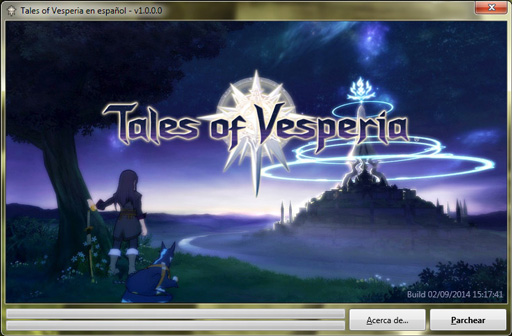
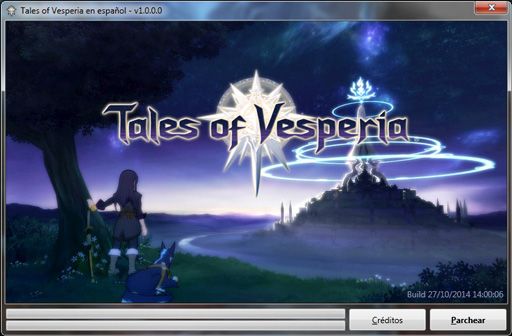
Correcciones y ajustes.

diff --git a/index.html b/index.html
@@ -38,8 +38,8 @@
       <p>Por supuesto, en un proyecto de esta magnitud nunca se sabe cuándo está todo finiquitado, y después de los PNJ todavía se tuvieron que rematar diálogos faltantes, la edición gráfica, los logros… detalles que se fueron puliendo antes de verano. Lia, además, hizo cuatro guías del juego: misiones secundarias, logros, recetas y títulos, que os presentamos en la sección correspondiente.</p>
       <p>Llegó el momento de testear el juego en una Xbox 360. Pedimos prestada una J-TAG en distintos foros, que por aquel entonces era imprescindible para hacer todas las pruebas que necesitábamos, pero no apareció ningún héroe. Menos mal que soywiz pudo hacerse con una, pero por asuntos personales fue imposible empezar el testeo hasta principios de…</p>
       <h3>Año 2012</h3>
-      <p>… 2012, donde Memnoch, uno de los testers junto a Lia, abrió un hilo en el foro de Tales-Translations. Subía imágenes casi a diario del progreso y encontró errores de todo tipo y condición, tanto ortográficos, sintácticos, de programación, celdas vacías, palabras que se salían, audio que no sonaba, fragmentos en inglés… No se podía publicar algo en ese estado, pero ya dábamos por hecho. Le dedicó unos dos meses a pasarse el juego y a corregir o informar de todos los errores que encontró.</p>
-      <p>Pero, en vista de que la situación personal de soywiz iba para largo, y dado que Memnoch y Lia son unos culos inquietos, decidieron centrar sus esfuerzos en traducir el juego Radiant Historia, de Nintendo DS, que podéis descargar aquí. Sí, publicidad gratuita, ¿qué pasa?</p>
+      <p>… 2012, donde Memnoch, uno de los testers junto a Lia, abrió un hilo en el foro de Tales-Translations. Subía imágenes casi a diario del progreso y encontró errores de todo tipo y condición, tanto ortográficos, sintácticos, de programación, celdas vacías, palabras que se salían, audio que no sonaba, fragmentos en inglés… No se podía publicar algo en ese estado, pero eso ya lo dábamos por hecho. Le dedicó unos dos meses a pasarse el juego y a corregir o informar de todos los errores que encontró.</p>
+      <p>Pero, en vista de que la situación personal de soywiz iba para largo, y dado que Memnoch y Lia son unos culos inquietos, decidieron centrar sus esfuerzos en traducir el juego Radiant Historia, de Nintendo DS, que podéis <a href="http://rh.tales-tra.com/" target="_blank">descargar aquí</a>. Sí, publicidad gratuita, ¿qué pasa?</p>
       <p>A finales de año soywiz reapareció, corrigió todos los errores que pudo y sacó otro parche para que Memnoch lo testeara, labor que le llevó otros dos o tres meses. Teníamos intención de pegarle al menos tres repasadas, y la última de ellas tenía que ser por parte de Lia.</p>
       <h3>Año 2013</h3>
       <p>A lo largo de este año soywiz fue apareciendo esporádicamente, corrigió algunos de los errores que se habían detectado durante el testeo y avanzó con la programación del parche de la traducción. Memnoch y Lia, los únicos que quedaban pendientes del proyecto, se mantuvieron a la espera de poder empezar el tercer y último testeo mientras acababan —acabábamos— el Radiant Historia (guiño, guiño). Por desgracia, soywiz desapareció de nuevo y la traducción volvió a quedar en el limbo.</p>
@@ -57,7 +57,7 @@
       <div class="section-name">Descargar</div>
     </div>
     <div class="section-top-frame">
-      <div class="section-top-content"  style="width: 256px">
+      <div class="section-top-content" style="width: 256px">
         <p>Para traducir Tales of Vesperia al español tienes que descargarte este parche.</p>
       </div>
       <div class="section-top-content" style="width: 346px">
@@ -232,7 +232,6 @@
 <div id="footer">
   <div id="footer-2nd-layer">
     <div id="menu_selection_glow"></div>
-    <div id="menu_selection_hover"></div>
     <div id="footer-3rd-layer">
       <ul>
         <li><a data-index="0" class="menuitem" href="#main">Principal</a></li>

diff --git a/js/menu.js b/js/menu.js
@@ -15,7 +15,7 @@ $('.menuitem').click(function(e) {
     changeSection(index);
 });
 
-if (true) {
+if (false) {
     $('.menuitem').on('mouseover', function(e) {
         var index = parseInt($(e.target).data('index'));
 		if(index != currentSection) $("#menu_selection_hover").animate({ left: sectionPositions[index] }, 0).show(0);

diff --git a/css/style.css b/css/style.css
@@ -152,7 +152,7 @@ p {
 }
 #footer-3rd-layer ul li a:hover {
 	text-decoration: none;
-	color: #ccc;
+	color: #fff;
 }
 #footer-3rd-layer ul li a.selected {
     text-decoration: none;
